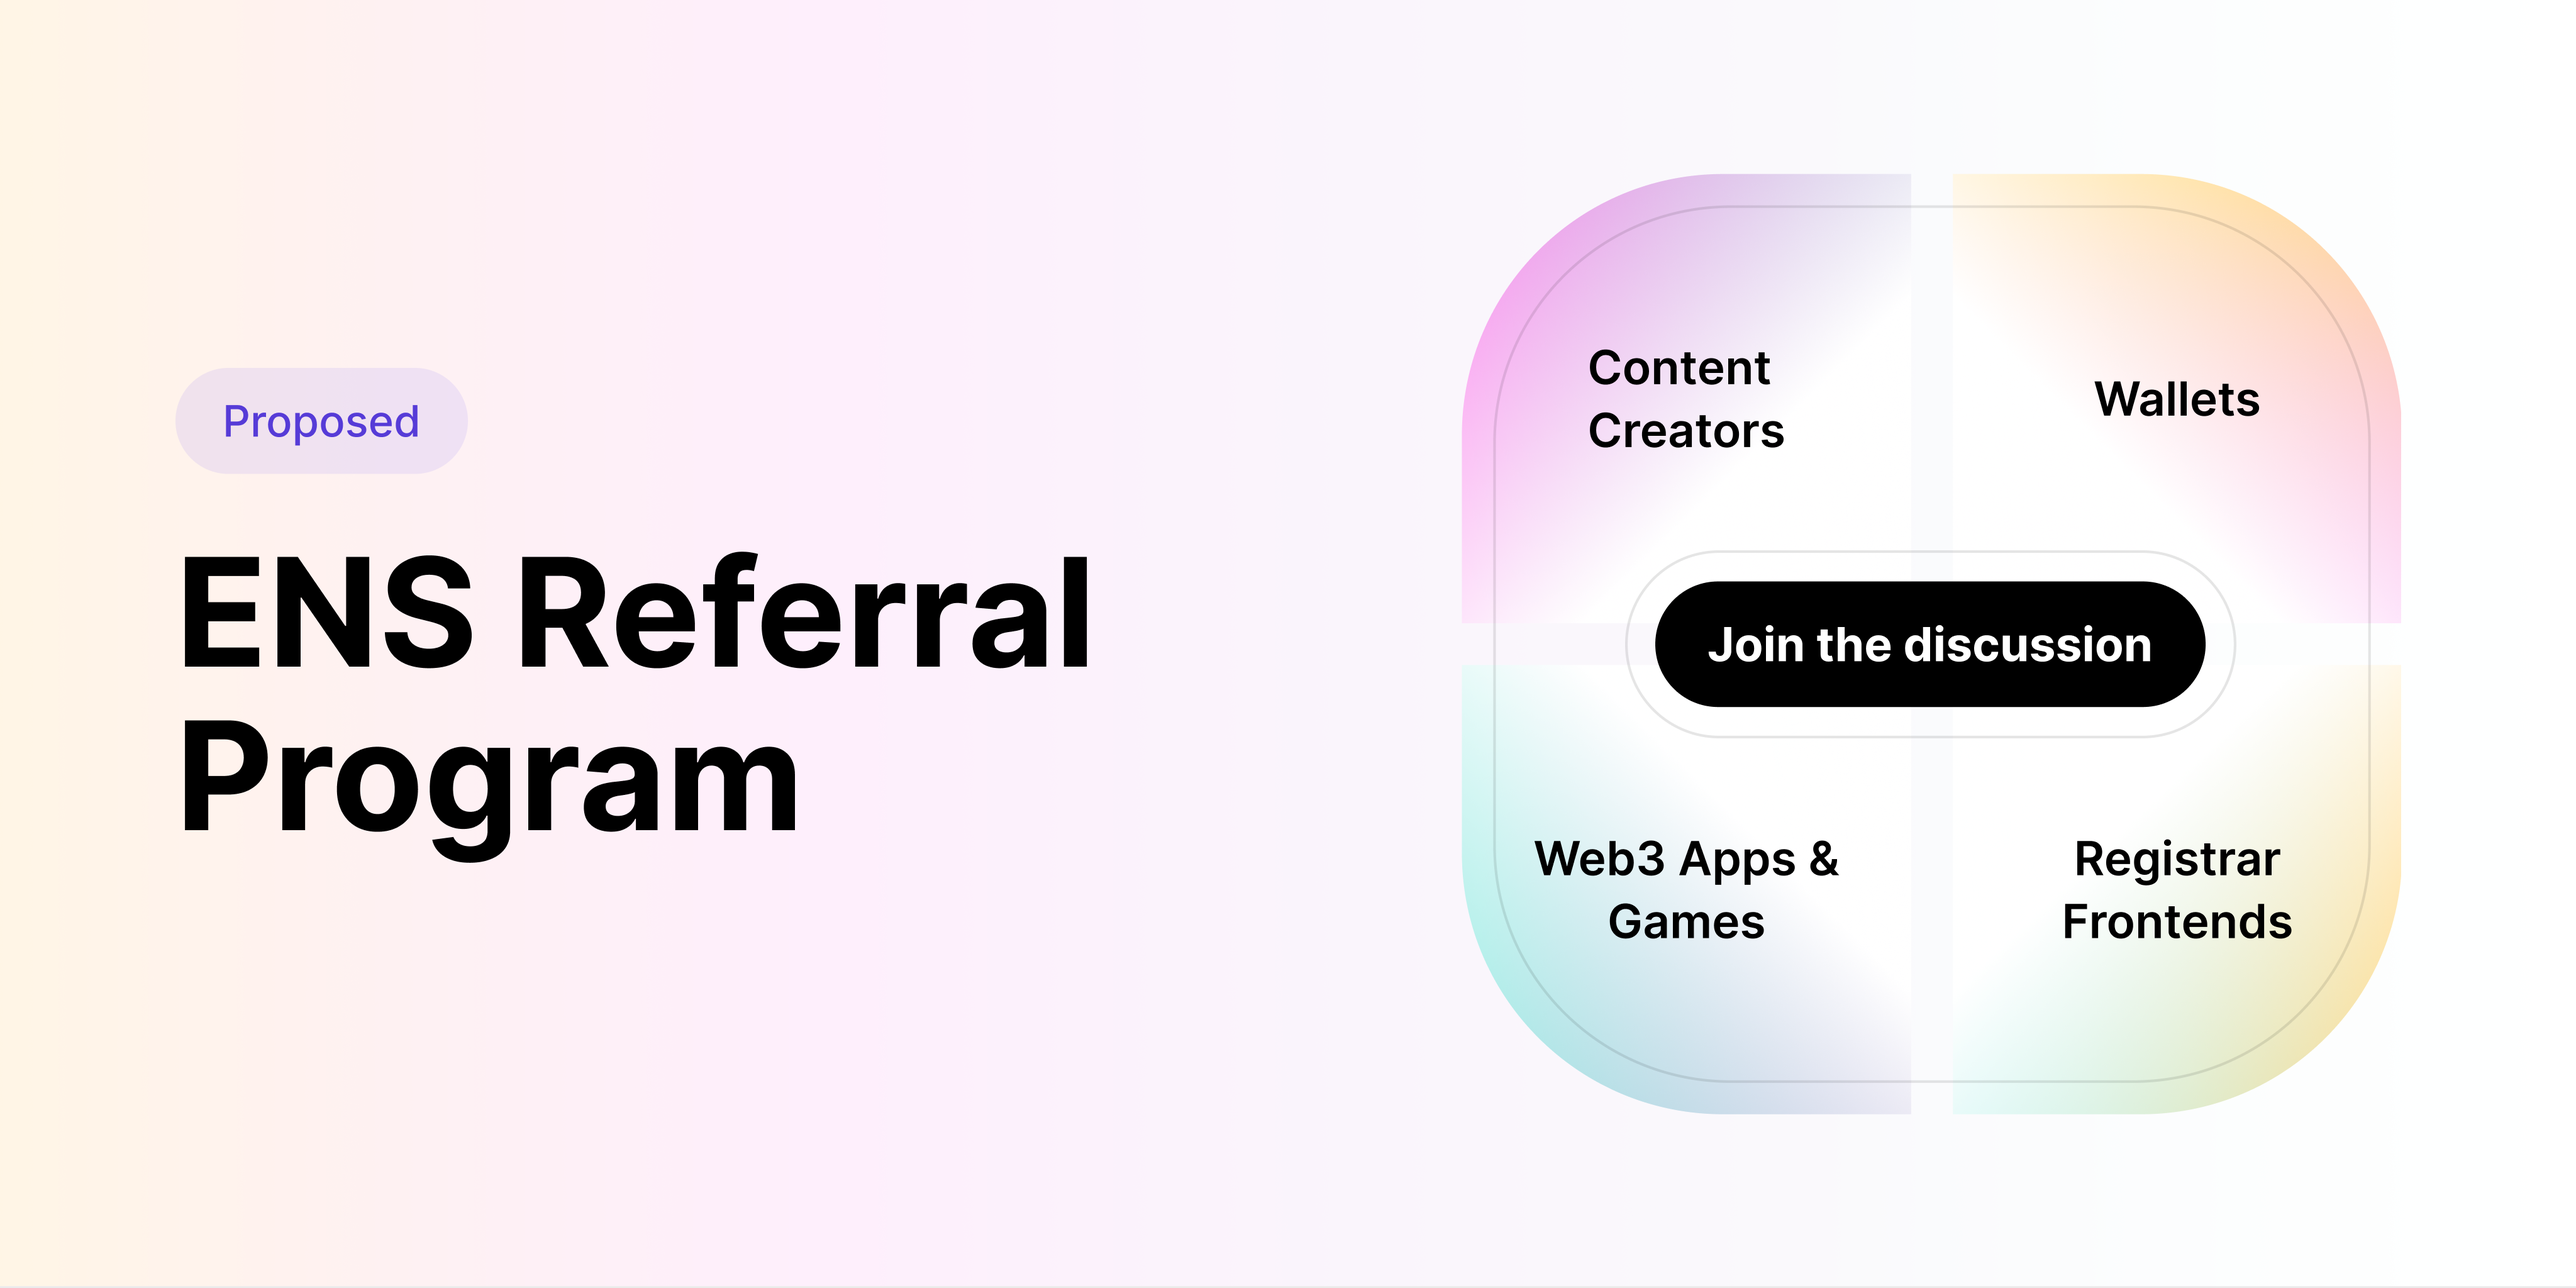
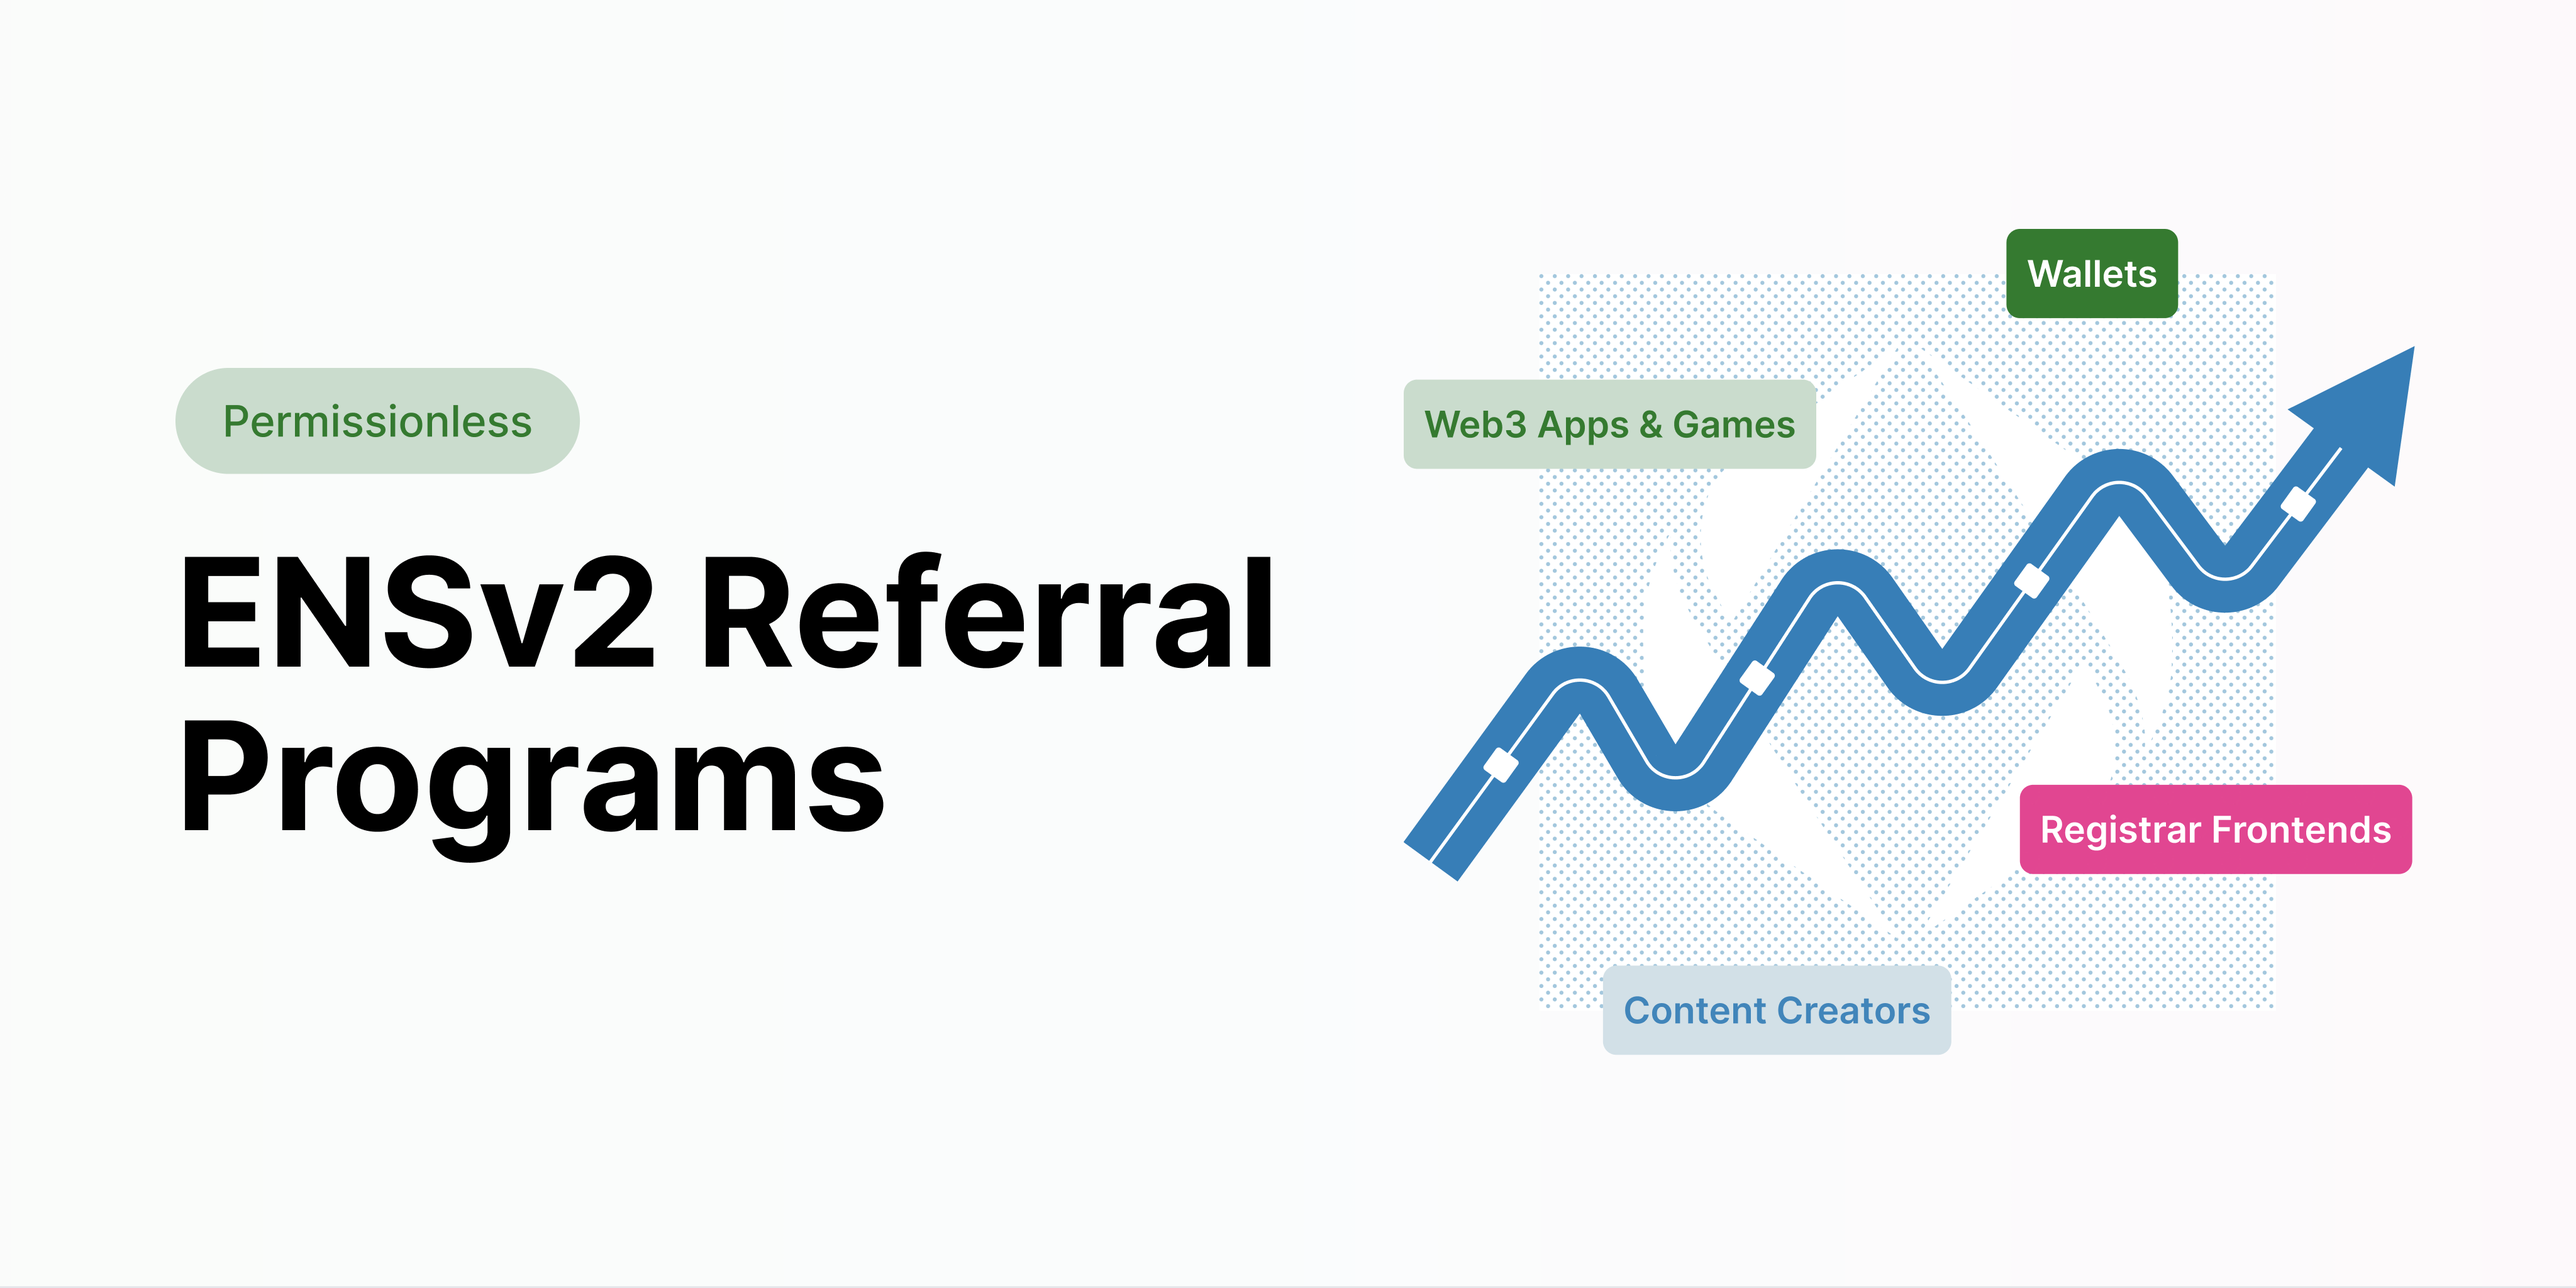
feat: update og info for ens-referral-program

diff --git a/apps/namehashlabs.org/app/ens-referral-program/page.tsx b/apps/namehashlabs.org/app/ens-referral-program/page.tsx
@@ -3,7 +3,7 @@ import Image from "next/image";
 import { ProductComponent } from "@/components/2 - molecules/product-component";
 import { defaultMetaOpengraph, defaultMetaTwitter } from "../shared-metadata";
 
-const title = "ENS Referral Program Proposal";
+const title = "ENSv2 Referral Programs";
 const description =
   "Join the discussion about an ENS Referral Program and help ENS grow.";
 
